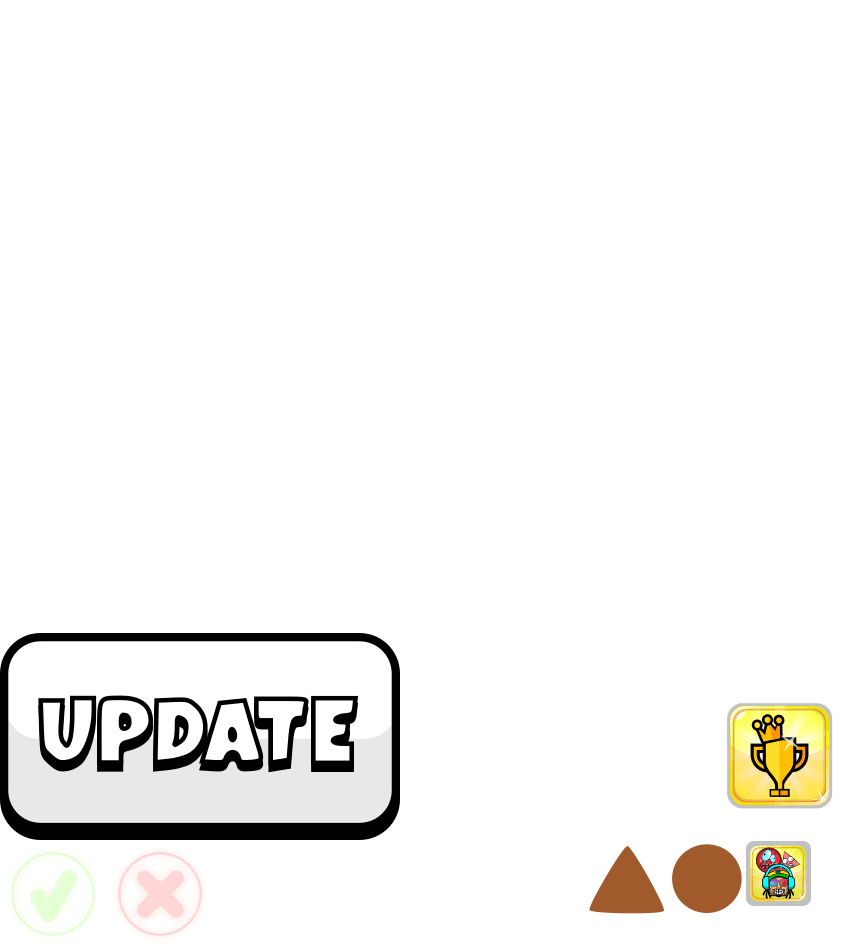
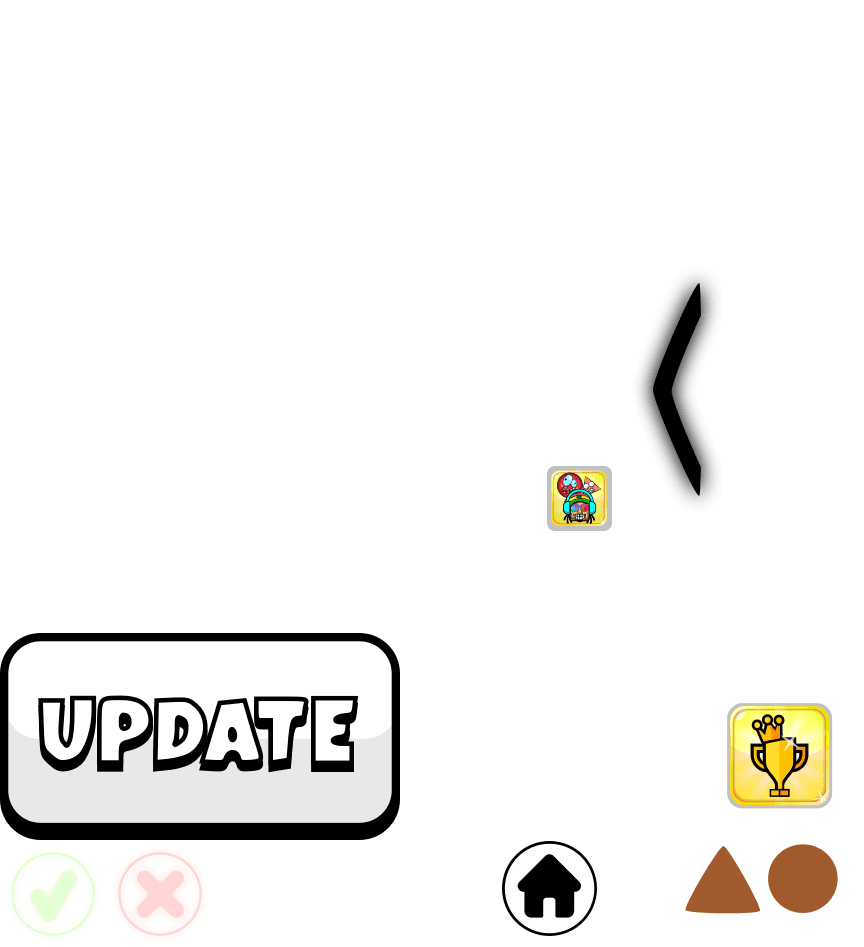
23:25/2021-01-05

Changed region(s): [[0.5625, 0.8881, 0.9688, 1.0], [0.7188, 0.2756, 0.8438, 0.5512], [0.625, 0.49, 0.7188, 0.5818]]

diff --git a/client/src/main/game/scenes/level-select.js b/client/src/main/game/scenes/level-select.js
@@ -784,8 +784,43 @@ if(condition_1 || condition_2 || !sign){
       this.hideHardLevelsOrnaments(elements,sign)
       this.hideThornBorder(sign)
     }
+
+    if(this.isMysteryLevel(this.current_page_number)){
+      this.updatePageToMystery(elements)
+    }else if(this.levelEarlierWasMystery(sign)){
+      this.updatePageToNormal()
+    }
   }
 
+  updatePageToMystery(elements){
+    elements.ranking_button.setVisible(false);
+    
+    elements.name.setText("?")
+    elements.icon.setFrame("mystery-icon")
+    this.home_button.setFrame("home-button-big-mystery") // should be without big
+    this.arrows.forEach(arrow=>arrow.setFrame("arrow-button-mystery"))
+     this.updateBackgroundColor()
+  }
+updatePageToNormal(){
+  this.home_button.setFrame("home-button") // should be without big
+  this.arrows.forEach(arrow=>arrow.setFrame("arrow-button"))
+}
+  levelEarlierWasMystery(sign){
+    
+    let page_num_before = this.current_page_number
+    if(sign === "-"){
+      page_num_before--
+    }
+    else {
+      page_num_before++ 
+    }
+    if(page_num_before === -1 || page_num_before === levelsConfiguration.length) return false
+
+return this.isMysteryLevel(page_num_before)
+  }
+  isMysteryLevel(page_number){
+  return  levelsConfiguration[page_number].info.name.slice(-1) === "-"
+  }
   showHardLevelsOrnaments({ score_bar, name_bar },sign) {
 
     this.showSpikes(sign)
@@ -833,12 +868,20 @@ if(condition_1 || condition_2 || !sign){
       score_to_next_level: level_object.info.score_to_next_level,
     })
 
+    
     const started_scene = this.scene.get(level_to_start)
     started_scene.is_first_try = true
+
     started_scene.scene
-      .launch("lose", { scene: started_scene })
+      .launch("lose", {
+         scene: started_scene
+
+        })
+
       .bringToTop("lose")
       .sleep("lose")
+
+
 
     this.scene.sleep("menu")
     this.scene.sleep()

diff --git a/client/src/main/game/levels/threeTargets/threeTargets-easy.js b/client/src/main/game/levels/threeTargets/threeTargets-easy.js
@@ -1,0 +1,47 @@
+import Manager from "../../main/level-manager.js"
+import OneStepFunctionsManager from "../1-step/functions"
+
+export default class ThreeTargets_Easy extends Phaser.Scene {
+  constructor() {
+    super("ThreeTargets-_Easy")
+  }
+
+  init(config) {
+    this.level = config.level
+    this.score_to_next_level = config.score_to_next_level
+
+    this.manager = new Manager(this, config.config)
+    this.manager.init()
+    this.oneStepFunctionsManager = new OneStepFunctionsManager(this)
+  
+  }
+
+  create() {
+    this.manager.create()
+
+    this.manager.createGUI()
+    
+    this.manager.createFirstTarget()
+    this.manager.createTargets()
+    this.swapTargetToTheNearset()
+    this.manager.setNewTarget()
+
+    this.manager.centerTargets()
+    this.manager.showTargets()
+    this.manager.createStick()
+    this.manager.createCircles()
+    this.manager.bindInputEvents()
+
+    this.manager.GUI_helper.sceneIntro(this)
+   
+  }
+  update() {
+    if (!this.manager.game_started) return
+    this.manager.updateRotationAngle()
+    this.manager.updateCircleStickAngle()
+    this.manager.checkIfMissedTarget()
+  }
+  swapTargetToTheNearset(){
+    this.oneStepFunctionsManager.swapTargetToTheNearset()
+}
+}

diff --git a/server/src/settings/levels/easy.js b/server/src/settings/levels/easy.js
@@ -28,19 +28,7 @@ module.exports = [
     },
   },
 
-  {
-    color: "red_3",
-    info: {
-      score_to_next_level: 10,
-      tint: "0x06E0FF",
-      name: "threeTargets-",
-    },
-    config: {
-      background: "carousel-bg",
-      ...config,
-    
-    },
-  },
+  
 
   {
     color: "gray_1",
@@ -97,6 +85,25 @@ module.exports = [
       acceleration: 0.04,
     },
   },
+
+  {
+    color: "white_1",
+    info: {
+      score_to_next_level: 80,
+      tint: "0x06E0FF",
+      name: "threeTargets-",
+    },
+    config: {
+      background: "carousel-bg",
+      ...config,
+    targets_amount:3,
+    ball_distance:450,
+    starting_target:0,
+  additional_angle:30,
+  rotation_speed:1.2
+    },
+  },
+
   {
     color: "yellow_4",
     info: {

diff --git a/client/src/main/game/scenes/loader.js b/client/src/main/game/scenes/loader.js
@@ -119,6 +119,7 @@ init(){
 
     this.load.image("pentagon", `${imgPath}/pentagon.png`)
     this.load.image("flame", `${imgPath}/flame.png`)
+
     this.loadImage("lock2", "mix")
     this.loadImage("black", "mix")
     this.loadImage("pentagon", "mix")
@@ -126,13 +127,11 @@ init(){
 
     this.loadImage("buttons-lose-bg", "mix2")
     this.loadImage("score-lose-bg","mix2")
-
     this.loadImage("lb-me-bar", "mix2")
     this.loadImage("lb-strap", "mix2")
     this.loadImage("lb-scores-bg", "mix2")
     this.loadImage("lb-line", "mix2")
     this.loadImage("ranking-icon", "mix2")
-
 
   }
 

diff --git a/client/src/main/game/scenes/lose.js b/client/src/main/game/scenes/lose.js
@@ -276,6 +276,12 @@ this.stats.perfect = [this.purple_strap,a,b]
 
     const strap = this.add.image(a.x, a.y, "lb-strap")
 
+this.hideLBbutton = () => {
+  a.setVisbile(false)
+  strap.setVisible(false)
+}
+
+
     if(!window.is_lb_button_clicked){
       this.lb_button_tween =  this.tweens.add({
         targets:a,
@@ -435,6 +441,10 @@ this.time.addEvent({
       })
     })
     }
+  }
+
+  h(){
+    this.hideLBbutton()
   }
   showNextLevelButton() {
     this.next_level_button.setVisible(true).setActive(true)

diff --git a/client/src/main/game/core/scenes/easy-levels.js b/client/src/main/game/core/scenes/easy-levels.js
@@ -23,6 +23,7 @@ import Hell_Easy from "../../levels/hell/hell-easy"
 import Carousel_Easy from "../../levels/carousel/carousel-easy"
 import OneStep_Easy from "../../levels/1-step/1-step-easy"
 import ThreeStep_Easy from "../../levels/3-step/3-step-easy"
+import ThreeTargets_Easy from "../../levels/threeTargets/threeTargets-easy"
 
 export default [
   Basic_Easy,
@@ -50,4 +51,5 @@ export default [
   Carousel_Easy,
   OneStep_Easy,
   ThreeStep_Easy,
+  ThreeTargets_Easy
 ]
